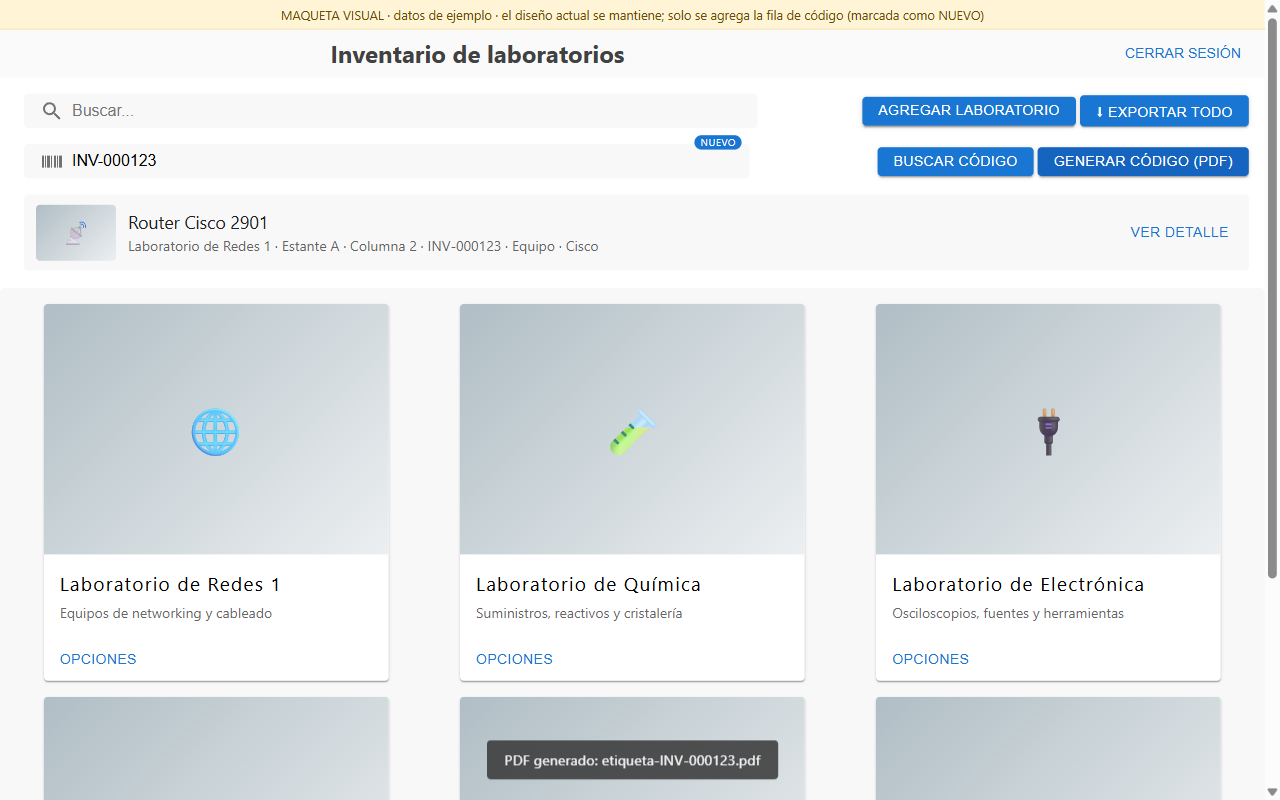
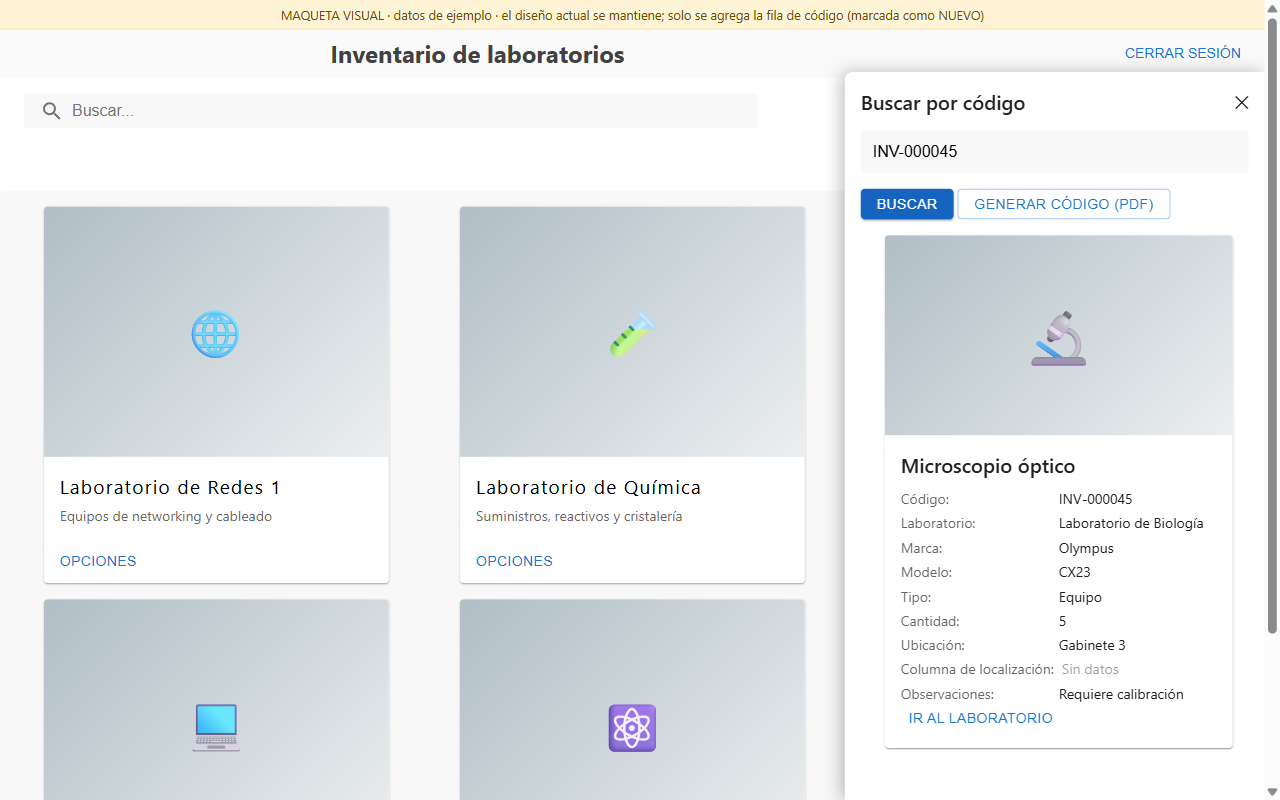
Buscador por codigo en panel lateral derecho con imagen, datos y laboratorio del equipo

diff --git a/components/codeSearchBar.js b/components/codeSearchBar.js
@@ -1,23 +1,49 @@
 import { useState } from 'react';
 import { useRouter } from 'next/router';
-import { styled } from '@mui/material/styles';
-import Box from '@mui/material/Box';
 import Button from '@mui/material/Button';
+import Drawer from '@mui/material/Drawer';
+import IconButton from '@mui/material/IconButton';
 import InputBase from '@mui/material/InputBase';
+import Card from '@mui/material/Card';
+import CardMedia from '@mui/material/CardMedia';
+import CardContent from '@mui/material/CardContent';
+import Typography from '@mui/material/Typography';
+import CloseIcon from '@mui/icons-material/Close';
 import QrCodeScannerIcon from '@mui/icons-material/QrCodeScanner';
 import toast from 'react-hot-toast';
 
 import findByCode from './firebase/find-by-code';
+import readLabById from './firebase/read-lab-with-id';
 import generateLabelPdf from './labels/labelPdf';
 import HomeStyles from '../styles/Home.module.css';
 import InventoryStyles from '../styles/Inventory.module.css';
 
-// Fila de búsqueda por código. Todos los usuarios pueden buscar;
-// solo el administrador ve el botón que genera el PDF de la etiqueta.
+// Campos del equipo que se muestran en el panel (mismos que el detalle del inventario)
+const FIELDS = [
+  ['marca', 'Marca'],
+  ['modelo', 'Modelo'],
+  ['tipo', 'Tipo'],
+  ['cantidad', 'Cantidad'],
+  ['ubicacion', 'Ubicación'],
+  ['columnadelocalizacion', 'Columna de localización'],
+  ['observaciones', 'Observaciones'],
+];
+
+function textOrNull(value) {
+  if (value === undefined || value === null) return null;
+  const text = Array.isArray(value) ? value.join(', ') : String(value).trim();
+  return text === '' ? null : text;
+}
+
+// Botón que abre un panel lateral derecho para buscar un equipo por su código.
+// Todos los usuarios pueden buscar; solo el administrador ve el botón del PDF.
 export default function CodeSearchBar({ role }) {
   const router = useRouter();
+  const [open, setOpen] = useState(false);
   const [codigo, setCodigo] = useState('');
   const [busy, setBusy] = useState(false);
+  const [result, setResult] = useState(null); // { item, labName }
+  const [notFound, setNotFound] = useState(false);
 
   const handleSearch = async () => {
     const code = codigo.trim().toUpperCase();
@@ -26,13 +52,23 @@ export default function CodeSearchBar({ role }) {
       return;
     }
     setBusy(true);
+    setNotFound(false);
+    setResult(null);
     const item = await findByCode(code);
-    setBusy(false);
     if (!item) {
-      toast.error('Código no encontrado: ' + code);
+      setNotFound(true);
+      setBusy(false);
       return;
     }
-    router.push({ pathname: '/inventory', query: { id: item.idLab, item: item.id } });
+    let labName = null;
+    try {
+      const lab = item.idLab ? await readLabById(item.idLab) : null;
+      labName = lab ? textOrNull(lab.name) : null;
+    } catch (error) {
+      console.error('No se pudo leer el laboratorio: ', error);
+    }
+    setResult({ item, labName });
+    setBusy(false);
   };
 
   const handlePdf = async () => {
@@ -43,8 +79,8 @@ export default function CodeSearchBar({ role }) {
     }
     setBusy(true);
     try {
-      const item = await findByCode(code);
-      await generateLabelPdf({ codigo: code, titulo: item ? item.equipo : '' });
+      const titulo = result && result.item.codigo === code ? result.item.equipo : '';
+      await generateLabelPdf({ codigo: code, titulo });
       toast.success('PDF generado: etiqueta-' + code + '.pdf');
     } catch (error) {
       console.error('Error al generar el PDF: ', error);
@@ -53,66 +89,116 @@ export default function CodeSearchBar({ role }) {
     setBusy(false);
   };
 
+  const goToLab = () => {
+    router.push({ pathname: '/inventory', query: { id: result.item.idLab, item: result.item.id } });
+  };
+
   return (
-    <div className={HomeStyles.controls} style={{ paddingTop: 0 }}>
-      <Box sx={{ flexGrow: 1 }}>
-        <Search>
-          <SearchIconWrapper>
-            <QrCodeScannerIcon />
-          </SearchIconWrapper>
-          <StyledInputBase
+    <>
+      <div className={HomeStyles.controls} style={{ paddingTop: 0, gridTemplateColumns: '1fr' }}>
+        <div className={InventoryStyles.flex}>
+          <Button variant="contained" startIcon={<QrCodeScannerIcon />} onClick={() => setOpen(true)}>
+            Buscar código
+          </Button>
+        </div>
+      </div>
+
+      <Drawer
+        anchor="right"
+        open={open}
+        onClose={() => setOpen(false)}
+        ModalProps={{ BackdropProps: { invisible: true } }}
+        PaperProps={{
+          sx: {
+            width: { xs: '100vw', sm: 420 },
+            top: '4.5rem',
+            height: 'calc(100% - 4.5rem)',
+            borderTopLeftRadius: 8,
+            padding: 2,
+            gap: 2,
+          },
+        }}
+      >
+        <div style={{ display: 'flex', alignItems: 'center', justifyContent: 'space-between' }}>
+          <Typography variant="h6">Buscar por código</Typography>
+          <IconButton aria-label="cerrar" onClick={() => setOpen(false)}>
+            <CloseIcon />
+          </IconButton>
+        </div>
+
+        <div style={{ background: '#F8F8F8', borderRadius: 4, padding: '4px 12px' }}>
+          <InputBase
+            autoFocus
+            fullWidth
             value={codigo}
             onChange={(event) => setCodigo(event.target.value)}
             onKeyDown={(event) => {
               if (event.key === 'Enter') handleSearch();
             }}
             placeholder="Código del equipo (escribe o escanea)"
-            inputProps={{ 'aria-label': 'codigo', autoComplete: 'off' }}
+            inputProps={{ 'aria-label': 'codigo', autoComplete: 'off', style: { textTransform: 'uppercase' } }}
           />
-        </Search>
-      </Box>
-      <div className={InventoryStyles.flex}>
-        <Button variant="contained" disabled={busy} onClick={handleSearch}>
-          Buscar código
-        </Button>
-        {role === 'admin' && (
-          <Button variant="contained" disabled={busy} onClick={handlePdf}>
-            Generar código (PDF)
+        </div>
+
+        <div className={InventoryStyles.flex} style={{ justifyContent: 'flex-start' }}>
+          <Button variant="contained" disabled={busy} onClick={handleSearch}>
+            Buscar
           </Button>
+          {role === 'admin' && (
+            <Button variant="outlined" disabled={busy} onClick={handlePdf}>
+              Generar código (PDF)
+            </Button>
+          )}
+        </div>
+
+        {notFound && (
+          <Typography color="error">Código no encontrado: {codigo.trim().toUpperCase()}</Typography>
         )}
-      </div>
-    </div>
+
+        {result && <ItemCard result={result} onOpenLab={goToLab} />}
+      </Drawer>
+    </>
   );
 }
 
-const Search = styled('div')(({ theme }) => ({
-  position: 'relative',
-  borderRadius: theme.shape.borderRadius,
-  backgroundColor: '#F8F8F8',
-  marginLeft: 0,
-  width: '100%',
-  [theme.breakpoints.up('sm')]: {
-    marginLeft: theme.spacing(1),
-  },
-}));
+function ItemCard({ result, onOpenLab }) {
+  const { item, labName } = result;
+  const image = textOrNull(item.imgurl);
+  return (
+    <Card sx={{ overflowY: 'auto', flexShrink: 0 }}>
+      {image ? (
+        <CardMedia component="img" height="200" image={image} alt={item.equipo || 'Equipo'} />
+      ) : (
+        <div style={{ height: 120, display: 'grid', placeItems: 'center', background: '#eceff1', color: '#78909c' }}>
+          Sin imagen
+        </div>
+      )}
+      <CardContent>
+        <Typography variant="h6" gutterBottom>
+          {textOrNull(item.equipo) || 'Sin nombre'}
+        </Typography>
+        <Row label="Código" value={textOrNull(item.codigo)} />
+        <Row label="Laboratorio" value={labName} />
+        {FIELDS.map(([key, label]) => (
+          <Row key={key} label={label} value={textOrNull(item[key])} />
+        ))}
+        <Button sx={{ mt: 1 }} onClick={onOpenLab}>
+          Ir al laboratorio
+        </Button>
+      </CardContent>
+    </Card>
+  );
+}
 
-const SearchIconWrapper = styled('div')(({ theme }) => ({
-  padding: theme.spacing(0, 2),
-  height: '100%',
-  position: 'absolute',
-  pointerEvents: 'none',
-  display: 'flex',
-  alignItems: 'center',
-  justifyContent: 'center',
-}));
-
-const StyledInputBase = styled(InputBase)(({ theme }) => ({
-  color: 'inherit',
-  width: '100%',
-  '& .MuiInputBase-input': {
-    padding: theme.spacing(1, 1, 1, 0),
-    paddingLeft: `calc(1em + ${theme.spacing(4)})`,
-    textTransform: 'uppercase',
-    '&::placeholder': { textTransform: 'none' },
-  },
-}));
+function Row({ label, value }) {
+  return (
+    <div style={{ display: 'flex', gap: 8, padding: '3px 0' }}>
+      <Typography variant="body2" color="text.secondary" sx={{ minWidth: 150 }}>
+        {label}:
+      </Typography>
+      <Typography variant="body2" color={value ? 'text.primary' : 'text.disabled'}>
+        {value || 'Sin datos'}
+      </Typography>
+    </div>
+  );
+}

diff --git a/docs/maqueta-busqueda/index.html b/docs/maqueta-busqueda/index.html
@@ -30,7 +30,7 @@
   .codeSearch input::placeholder { text-transform: none; }
   .newTag { position: absolute; right: 8px; top: -9px; background: #1976d2; color: #fff; font-size: .62rem; padding: 1px 6px; border-radius: 99px; letter-spacing: .05em; }
   @media (max-width: 760px) { .controls, .codeRow { grid-template-columns: 1fr; } }
-  #resultado { padding: 0 1rem 1rem 1.5rem; }
+  #resultado { padding: 0; }
   .result { display: flex; align-items: center; gap: 12px; background: #F8F8F8; border-radius: 4px; padding: 10px 12px; }
   .result.notfound { color: #b3261e; }
   .result .thumb { width: 80px; height: 56px; border-radius: 4px; background: linear-gradient(135deg,#b0bec5,#eceff1); display: grid; place-items: center; font-size: 1.5rem; flex: none; }
@@ -45,6 +45,23 @@
   .card .name:hover { color: #1976d2; cursor: pointer; }
   .card .desc { font-size: .875rem; color: rgba(0,0,0,.6); line-height: 1.43; }
   .card .cardActions { padding: 8px; }
+  #drawer { position: fixed; right: 0; top: 4.5rem; height: calc(100% - 4.5rem); width: 420px; max-width: 100vw; background: #fff; border-radius: 8px 0 0 0; box-shadow: -4px 0 16px rgba(0,0,0,.25); padding: 16px; display: flex; flex-direction: column; gap: 16px; transform: translateX(105%); transition: transform .25s; z-index: 20; overflow-y: auto; }
+  #drawer.open { transform: none; }
+  .dHead { display: flex; justify-content: space-between; align-items: center; }
+  .dHead h2 { font-size: 1.25rem; font-weight: 500; }
+  .dHead button { border: 0; background: none; font-size: 1.1rem; cursor: pointer; }
+  .dInput { background: #F8F8F8; border-radius: 4px; padding: 4px 12px; }
+  .dInput input { width: 100%; border: 0; background: transparent; font: 400 1rem Roboto, sans-serif; padding: 8px 0; outline: none; text-transform: uppercase; }
+  .dInput input::placeholder { text-transform: none; }
+  .dActions { display: flex; gap: 4px; }
+  .mbtn.out { background: #fff; color: #1976d2; box-shadow: none; border: 1px solid rgba(25,118,210,.5); }
+  .rcard { border-radius: 4px; box-shadow: 0 2px 1px -1px rgba(0,0,0,.2),0 1px 1px 0 rgba(0,0,0,.14),0 1px 3px 0 rgba(0,0,0,.12); overflow: hidden; flex-shrink: 0; }
+  .rcard .img { height: 200px; display: grid; place-items: center; font-size: 3.5rem; background: linear-gradient(135deg,#b0bec5,#eceff1); }
+  .rcard .body { padding: 16px; }
+  .rcard h3 { font-size: 1.25rem; font-weight: 500; margin-bottom: 8px; }
+  .row { display: flex; gap: 8px; padding: 3px 0; font-size: .875rem; }
+  .row .l { min-width: 150px; color: rgba(0,0,0,.6); }
+  .row .v.none { color: rgba(0,0,0,.38); }
   #toast { position: fixed; left: 50%; bottom: 24px; transform: translateX(-50%) translateY(20px); background: #323232; color: #fff; padding: 10px 18px; border-radius: 4px; font-size: .9rem; opacity: 0; transition: .25s; pointer-events: none; max-width: 90vw; text-align: center; }
   #toast.show { opacity: 1; transform: translateX(-50%) translateY(0); }
 </style>
@@ -69,18 +86,22 @@
   </div>
 </div>
 
-<div class="codeRow">
-  <div class="codeSearch">
-    <span class="newTag">NUEVO</span>
-    <svg viewBox="0 0 24 24" aria-hidden="true"><path d="M2 6h2v12H2V6zm3 0h1v12H5V6zm2 0h3v12H7V6zm4 0h1v12h-1V6zm3 0h2v12h-2V6zm3 0h1v12h-1V6zm2 0h3v12h-3V6z"/></svg>
-    <input id="codigo" type="text" placeholder="Código del equipo (escribe o escanea) · Ej. INV-000123" aria-label="codigo" autocomplete="off">
-  </div>
+<div class="codeRow" style="grid-template-columns:1fr">
   <div class="actions">
-    <button class="mbtn" id="btnBuscar" type="button">Buscar código</button>
-    <button class="mbtn" id="btnPdf" type="button">Generar código (PDF)</button>
+    <span class="newTag" style="position:static;margin-right:6px">NUEVO</span>
+    <button class="mbtn" id="btnAbrir" type="button">Buscar código</button>
   </div>
 </div>
-<div id="resultado" aria-live="polite"></div>
+
+<aside id="drawer" aria-label="Buscar por código">
+  <div class="dHead"><h2>Buscar por código</h2><button type="button" id="btnCerrar" aria-label="cerrar">✕</button></div>
+  <div class="dInput"><input id="codigo" type="text" placeholder="Código del equipo (escribe o escanea)" autocomplete="off"></div>
+  <div class="dActions">
+    <button class="mbtn" id="btnBuscar" type="button">Buscar</button>
+    <button class="mbtn out" id="btnPdf" type="button">Generar código (PDF)</button>
+  </div>
+  <div id="resultado" aria-live="polite"></div>
+</aside>
 
 <div class="labsContainer" id="labs"></div>
 
@@ -99,9 +120,9 @@
     { n: 'Laboratorio de Biología', d: 'Microscopios y material biológico', e: '🔬' }
   ];
   const ITEMS = {
-    'INV-000123': { equipo: 'Router Cisco 2901', lab: 'Laboratorio de Redes 1', tipo: 'Equipo', marca: 'Cisco', ubic: 'Estante A · Columna 2', e: '📡' },
-    'INV-000045': { equipo: 'Microscopio óptico', lab: 'Laboratorio de Biología', tipo: 'Equipo', marca: 'Olympus', ubic: 'Gabinete 3', e: '🔬' },
-    'INV-000207': { equipo: 'Osciloscopio digital', lab: 'Laboratorio de Electrónica', tipo: 'Equipo', marca: 'Rigol', ubic: 'Mesa 5', e: '📈' }
+    'INV-000123': { equipo: 'Router Cisco 2901', lab: 'Laboratorio de Redes 1', tipo: 'Equipo', marca: 'Cisco', modelo: '2901', cantidad: '2', ubic: 'Estante A', col: 'Columna 2', obs: '', e: '📡' },
+    'INV-000045': { equipo: 'Microscopio óptico', lab: 'Laboratorio de Biología', tipo: 'Equipo', marca: 'Olympus', modelo: 'CX23', cantidad: '5', ubic: 'Gabinete 3', col: '', obs: 'Requiere calibración', e: '🔬' },
+    'INV-000207': { equipo: 'Osciloscopio digital', lab: 'Laboratorio de Electrónica', tipo: 'Equipo', marca: 'Rigol', modelo: '', cantidad: '1', ubic: 'Mesa 5', col: 'B', obs: '', e: '📈' }
   };
 
   const $ = (id) => document.getElementById(id);
@@ -139,11 +160,16 @@
       out.innerHTML = '<div class="result notfound">Código <strong>' + c + '</strong> no encontrado.</div>';
       return;
     }
-    out.innerHTML = '<div class="result"><div class="thumb">' + it.e + '</div>' +
-      '<div class="info"><h3>' + it.equipo + '</h3><small>' + it.lab + ' · ' + it.ubic + ' · ' + c + ' · ' + it.tipo + ' · ' + it.marca + '</small></div>' +
-      '<button class="mbtn text" type="button" id="btnDetalle">Ver detalle</button></div>';
-    $('btnDetalle').addEventListener('click', () => toast('En la app real: abre el detalle del equipo'));
+    const filas = [['Código', c], ['Laboratorio', it.lab], ['Marca', it.marca], ['Modelo', it.modelo], ['Tipo', it.tipo],
+      ['Cantidad', it.cantidad], ['Ubicación', it.ubic], ['Columna de localización', it.col], ['Observaciones', it.obs]]
+      .map(([l, v]) => '<div class="row"><span class="l">' + l + ':</span><span class="v' + (v ? '' : ' none') + '">' + (v || 'Sin datos') + '</span></div>')
+      .join('');
+    out.innerHTML = '<div class="rcard"><div class="img">' + it.e + '</div><div class="body"><h3>' + it.equipo + '</h3>' + filas +
+      '<button class="mbtn text" type="button" id="btnDetalle">Ir al laboratorio</button></div></div>';
+    $('btnDetalle').addEventListener('click', () => toast('En la app real: abre el laboratorio del equipo'));
   }
+  $('btnAbrir').addEventListener('click', () => { $('drawer').classList.add('open'); $('codigo').focus(); });
+  $('btnCerrar').addEventListener('click', () => $('drawer').classList.remove('open'));
   $('btnBuscar').addEventListener('click', buscarCodigo);
   // El escáner USB escribe el código y envía Enter
   $('codigo').addEventListener('keydown', (e) => { if (e.key === 'Enter') { buscarCodigo(); $('codigo').select(); } });
